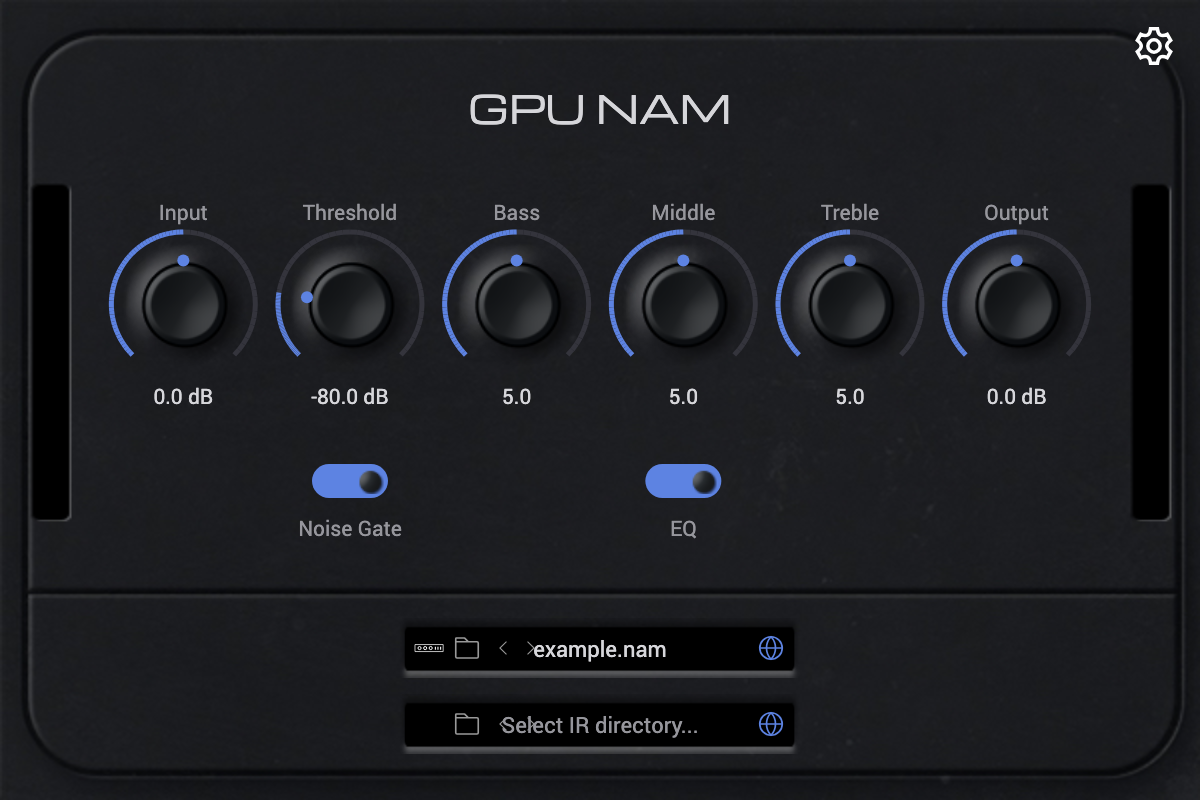
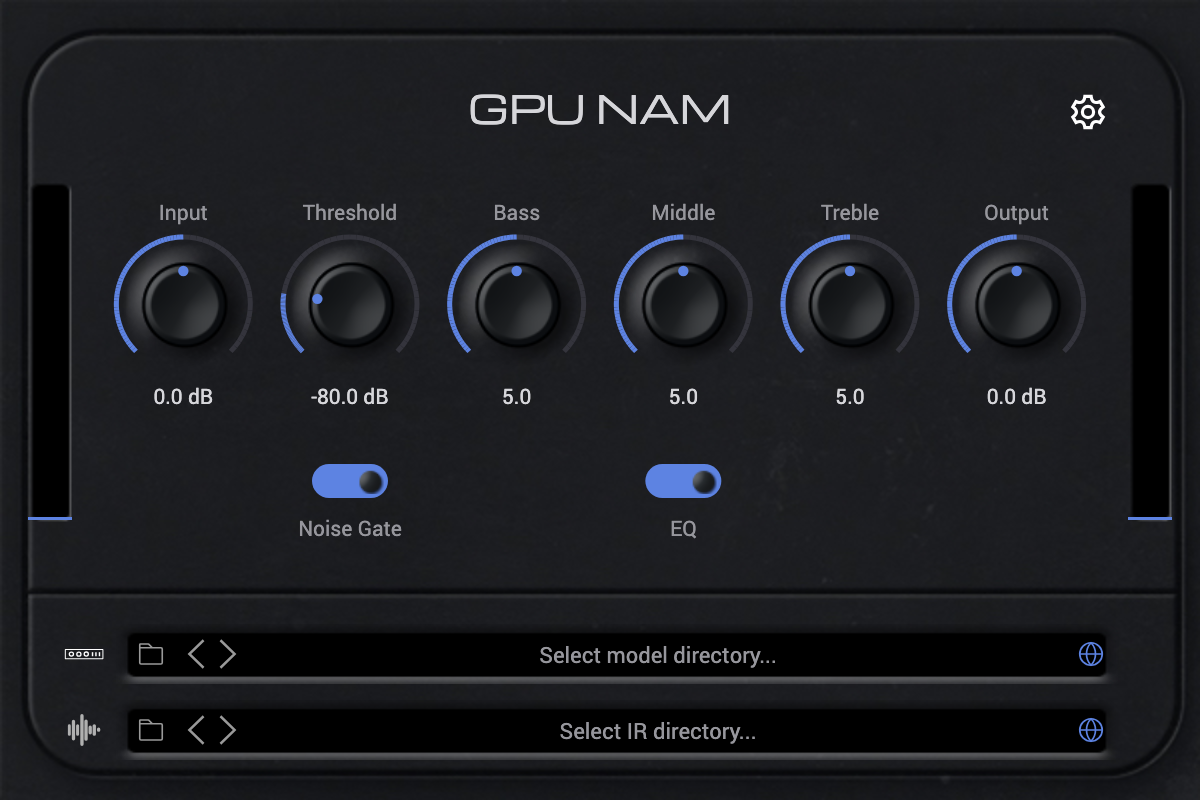
feat(gpu-nam): refine editor to closer NAM parity + settings render + audit
Editor faithfulness pass against a live NeuralAmpModeler capture:

- File slots span the content width like NAM: a type icon (model / IR) now
  sits to the LEFT of a wide FileBackground field, with a left-aligned
  folder + ‹ › browse cluster, centered path text, and a right-edge globe.
- The model slot shows NAM's "Select model directory..." prompt until a user
  actually selects a model (new Processor::user_model_loaded()); the bundled
  default still drives audio but reads as the reference's first-open state.
- Fix two asset-render bugs surfaced by the comparison: the ‹ › chevrons fill
  only ~35% of their 800px viewBox (drew ~4px and vanished) — now drawn
  oversized to read as visible chevrons; and IRIconOff.svg had no fill, so it
  rendered black on the dark panel — give it an inherited fill so the IR type
  icon shows.
- Settings gear moves onto the title line inside the panel (NAM's placement),
  not the window corner.
- Knob value arc hugs the cap (no floating gap) and the indicator dot sits
  inside the cap rather than riding the rim.
- Meters gain NAM's accent baseline at their foot, present even at rest.

Tooling + docs:
- gpu-nam-shot --settings renders the settings overlay (via a new
  GpuNamUi::show_settings()) so the GPU-specific Engine/Bypass page can be
  captured for comparison.
- docs/comparison.md: honest iPlug-reference-vs-ours audit. Both UIs are
  GPU-rendered (NanoVG vs Skia/Dawn); the real GPU differentiator is that our
[…]

diff --git a/examples/gpu-nam/gpu_nam_ui.hpp b/examples/gpu-nam/gpu_nam_ui.hpp
@@ -51,11 +51,18 @@ inline constexpr float kKnobCy = 152.0f, kKnobR = 33.0f;
 inline constexpr float kKnobLabelY = 110.0f, kKnobValueY = 202.0f;
 inline constexpr float kToggleY = 232.0f, kToggleW = 38.0f, kToggleH = 17.0f;
 inline constexpr float kToggleLabelY = 268.0f;
-inline constexpr float kFileL = 200.0f, kFileR = 400.0f;
-inline constexpr float kModelT = 309.0f, kFileH = 30.0f, kIrDy = 38.0f;
+// File rows span most of the content width like NAM: a type icon sits to the
+// LEFT of a wide FileBackground field; the field carries a left-aligned
+// folder + ‹ › browse cluster, centered path text, and a right-edge globe.
+inline constexpr float kFileIconL = 32.0f;   // type icon (model / IR), left of field
+inline constexpr float kFileFieldL = 58.0f;  // FileBackground left edge
+inline constexpr float kFileR = 560.0f;      // FileBackground right edge
+inline constexpr float kModelT = 312.0f, kFileH = 30.0f, kIrDy = 38.0f;
 inline constexpr float kMeterInL = 10.0f, kMeterOutL = 560.0f;
 inline constexpr float kMeterT = 86.0f, kMeterW = 30.0f, kMeterH = 178.0f;
-inline constexpr float kGearX = 566.0f, kGearY = 12.0f, kGearSz = 22.0f;
+// Settings gear: inside the panel on the title line, right of the title (NAM
+// places it there, not in the window corner).
+inline constexpr float kGearX = 534.0f, kGearY = 46.0f, kGearSz = 20.0f;
 inline float knob_cx(int i) {
     const float cw = (kKnobAreaR - kKnobAreaL) / kNumKnobs;
     return kKnobAreaL + (static_cast<float>(i) + 0.5f) * cw;
@@ -120,6 +127,9 @@ public:
     void on_mouse_down(vw::Point p) override { pointer_press(p); }
     void on_mouse_drag(vw::Point p) override { pointer_move(p); }
     void on_mouse_up(vw::Point) override { pointer_release(); }
+
+    // Open/close the settings overlay programmatically (screenshots, tests).
+    void show_settings(bool on) { show_settings_ = on; }
 
     // Test accessors (headless interaction verification).
     vw::Point knob_center_for_test(int i) {
@@ -224,15 +234,18 @@ private:
         constexpr float kSweep = 135.0f;  // ±135° → 270° travel
         const float a0 = -kSweep * 3.14159265f / 180.0f;
         const float a1 = (-kSweep + frac * 2.0f * kSweep) * 3.14159265f / 180.0f;
-        stroke_arc_points(canvas, scx, scy, sR + ss(3.0f), a0,  kSweep * 3.14159265f / 180.0f,
+        // Value arc hugs the knob face (NAM's ring sits just outside the cap, not
+        // floating with a gap).
+        const float arc_r = sR + ss(0.5f);
+        stroke_arc_points(canvas, scx, scy, arc_r, a0,  kSweep * 3.14159265f / 180.0f,
                           colors_.arc_track, ss(2.5f));
-        stroke_arc_points(canvas, scx, scy, sR + ss(3.0f), a0, a1, colors_.accent, ss(2.5f));
+        stroke_arc_points(canvas, scx, scy, arc_r, a0, a1, colors_.accent, ss(2.5f));
 
-        // Indicator dot at the current angle.
-        const float ix = scx + std::sin(a1) * sR * 0.66f;
-        const float iy = scy - std::cos(a1) * sR * 0.66f;
+        // Indicator dot set inside the cap (not riding the rim), like NAM.
+        const float ix = scx + std::sin(a1) * sR * 0.5f;
+        const float iy = scy - std::cos(a1) * sR * 0.5f;
         canvas.set_fill_color(colors_.accent);
-        canvas.fill_circle(ix, iy, ss(3.0f));
+        canvas.fill_circle(ix, iy, ss(2.6f));
 
         // Value readout below.
         char buf[40];
@@ -296,54 +309,70 @@ private:
     void paint_meter(cv::Canvas& canvas, float x, float level_db) {
         const float y = nam_geom::kMeterT, w = nam_geom::kMeterW, h = nam_geom::kMeterH;
         canvas.draw_image_from_file(img("MeterBackground.png"), sx(x), sy(y), ss(w), ss(h));
+        const float pad = 4.0f;
+        const float bx = x + pad, bw = w - 2 * pad;
         // Map −48..0 dB → 0..1 of the bar height, filling from the bottom. The
         // −48 dB floor keeps the meter dark at rest (matching NAM's idle look).
         const float frac = std::clamp((level_db + 48.0f) / 48.0f, 0.0f, 1.0f);
-        if (frac <= 0.001f) return;
-        const float pad = 4.0f;
-        const float bar_h = (h - 2 * pad) * frac;
-        const float bx = x + pad, bw = w - 2 * pad;
-        const float by = y + h - pad - bar_h;
-        // Green→amber→red toward the top, like NAM's meter.
-        cv::Color c = level_db > -3.0f  ? cv::Color::rgba8(226, 96, 80)
-                    : level_db > -12.0f ? cv::Color::rgba8(230, 184, 90)
-                                        : colors_.accent;
-        canvas.set_fill_color(c);
-        canvas.fill_rounded_rect(sx(bx), sy(by), ss(bw), ss(bar_h), ss(2.0f));
+        if (frac > 0.001f) {
+            const float bar_h = (h - 2 * pad) * frac;
+            const float by = y + h - pad - bar_h;
+            // Green→amber→red toward the top, like NAM's meter.
+            cv::Color c = level_db > -3.0f  ? cv::Color::rgba8(226, 96, 80)
+                        : level_db > -12.0f ? cv::Color::rgba8(230, 184, 90)
+                                            : colors_.accent;
+            canvas.set_fill_color(c);
+            canvas.fill_rounded_rect(sx(bx), sy(by), ss(bw), ss(bar_h), ss(2.0f));
+        }
+        // Accent baseline at the meter's foot — present even at rest, like NAM's
+        // blue floor line under each meter.
+        canvas.set_fill_color(colors_.accent);
+        canvas.fill_rect(sx(bx), sy(y + h - pad - 1.5f), ss(bw), ss(1.5f));
     }
 
     void paint_file_slots(cv::Canvas& canvas) {
+        // Show the model path only once a user picks one; the bundled default
+        // reads as NAM's first-open prompt (faithful to the reference default).
+        const std::string model_label = proc_.user_model_loaded()
+                                            ? proc_.model_name()
+                                            : "Select model directory...";
         paint_file_slot(canvas, nam_geom::kModelT, "ModelIcon.svg",
-                        proc_.model_name(), /*model=*/true);
+                        model_label, proc_.user_model_loaded());
         paint_file_slot(canvas, nam_geom::kModelT + nam_geom::kIrDy, "IRIconOff.svg",
-                        "Select IR directory...", /*model=*/false);
+                        "Select IR directory...", /*loaded=*/false);
     }
 
     void paint_file_slot(cv::Canvas& canvas, float top, const char* type_icon,
-                         const std::string& label, bool model) {
-        const float x = nam_geom::kFileL, w = nam_geom::kFileR - nam_geom::kFileL;
+                         const std::string& label, bool loaded) {
+        const float fx = nam_geom::kFileFieldL;
+        const float w = nam_geom::kFileR - fx;
         const float h = nam_geom::kFileH;
-        canvas.draw_image_from_file(img("FileBackground.png"), sx(x), sy(top), ss(w), ss(h));
         const float mid = top + h * 0.5f;
-        auto draw_icon = [&](const char* name, float ix, float iy, float sz) {
+        auto draw_icon = [&](const char* name, float ix, float iy, float sw, float sh) {
             const auto& s = svg(name);
-            if (!s.empty()) canvas.draw_svg(s, sx(ix), sy(iy), ss(sz), ss(sz));
+            if (!s.empty()) canvas.draw_svg(s, sx(ix), sy(iy), ss(sw), ss(sh));
         };
 
-        // Left group: type icon · folder · ‹ · › (matching NAM's control order).
-        const float isz = 15.0f;
-        draw_icon(type_icon,      x + 7.0f,  mid - isz * 0.5f, isz);
-        draw_icon("File.svg",     x + 26.0f, mid - isz * 0.5f, isz);
-        draw_icon("ArrowLeft.svg",  x + 46.0f, mid - 5.5f, 11.0f);
-        draw_icon("ArrowRight.svg", x + 60.0f, mid - 5.5f, 11.0f);
-        // Globe (right edge).
-        draw_icon("Globe.svg", x + w - 22.0f, mid - isz * 0.5f, isz);
+        // Type icon (model / IR) sits to the LEFT of the field, like NAM.
+        draw_icon(type_icon, nam_geom::kFileIconL, mid - 8.0f, 20.0f, 16.0f);
 
-        // Centered name (loaded model name, else the NAM placeholder text).
-        canvas.set_fill_color(model ? colors_.text : colors_.text_dim);
+        // Wide FileBackground field.
+        canvas.draw_image_from_file(img("FileBackground.png"), sx(fx), sy(top), ss(w), ss(h));
+
+        // Left-aligned browse cluster inside the field: folder · ‹ · ›. The arrow
+        // glyphs fill only ~35% of their 800px viewBox, so draw them oversized to
+        // read as visible chevrons at this scale.
+        draw_icon("File.svg",       fx + 10.0f, mid - 7.5f, 15.0f, 15.0f);
+        draw_icon("ArrowLeft.svg",  fx + 28.0f, mid - 12.0f, 24.0f, 24.0f);
+        draw_icon("ArrowRight.svg", fx + 44.0f, mid - 12.0f, 24.0f, 24.0f);
+        // Globe at the right edge.
+        draw_icon("Globe.svg", nam_geom::kFileR - 22.0f, mid - 7.5f, 15.0f, 15.0f);
+
+        // Centered path text (loaded model name, else NAM's placeholder prompt).
+        canvas.set_fill_color(loaded ? colors_.text : colors_.text_dim);
         canvas.set_font("Roboto", ss(11.0f));
         canvas.set_text_align(cv::TextAlign::center);
-        canvas.fill_text(label, sx(x + w * 0.5f), sy(mid + 3.8f));
+        canvas.fill_text(label, sx(fx + w * 0.5f + 20.0f), sy(mid + 3.8f));
         canvas.set_text_align(cv::TextAlign::left);
     }
 

diff --git a/examples/gpu-nam/gpu_nam_processor.hpp b/examples/gpu-nam/gpu_nam_processor.hpp
@@ -228,7 +228,16 @@ public:
     void load_model(const std::string& path) {
         std::lock_guard<std::mutex> lock(model_req_mutex_);
         requested_model_path_ = path.empty() ? gpu_nam_default_model_path() : path;
+        // A non-empty path is a real user selection; empty resets to the bundled
+        // default. The file-slot UI shows the prompt until a user picks a model.
+        user_model_loaded_.store(!path.empty(), std::memory_order_release);
         model_req_generation_.fetch_add(1, std::memory_order_release);
+    }
+
+    /// True once a user has selected a model via load_model(); false for the
+    /// bundled default. UI-thread only. Drives the file-slot prompt vs name.
+    bool user_model_loaded() const {
+        return user_model_loaded_.load(std::memory_order_acquire);
     }
 
     /// True when the live audio path is actually the GPU engine (Engine=GPU is
@@ -893,6 +902,7 @@ private:
     mutable std::mutex model_mutex_;
     nam::NamModel model_;
     std::string model_name_ = "(no model)";
+    std::atomic<bool> user_model_loaded_{false};
     TransferCurve transfer_curve_{};
     std::atomic<std::uint32_t> model_generation_{0};
 

diff --git a/examples/gpu-nam/screenshot.cpp b/examples/gpu-nam/screenshot.cpp
@@ -10,6 +10,7 @@
 //              it has in a live host.
 
 #include "gpu_nam_processor.hpp"  // pulls in BufferView + MidiBuffer via processor.hpp
+#include "gpu_nam_ui.hpp"
 #include <pulp/view/screenshot.hpp>
 
 #include <chrono>
@@ -27,10 +28,12 @@ int main(int argc, char** argv) {
 
     const char* out = "/tmp/gpu_nam_ui.png";
     bool want_gpu = false;
+    bool want_settings = false;
     for (int i = 1; i < argc; ++i) {
         const std::string arg(argv[i]);
         if (arg == "--gpu") want_gpu = true;
         else if (arg == "--raster") want_gpu = false;
+        else if (arg == "--settings") want_settings = true;
         else if (!arg.empty() && arg[0] != '-') out = argv[i];
     }
 
@@ -91,6 +94,8 @@ int main(int argc, char** argv) {
     }
 
     auto v = proc.create_view();
+    if (want_settings)
+        if (auto* ui = dynamic_cast<examples::GpuNamUi*>(v.get())) ui->show_settings(true);
     const bool ok = view::render_to_file(*v, 600, 400, out, 2.0f, backend);
     std::printf("GPU NAM editor screenshot [%s]: %s -> %s\n",
                 backend == ScreenshotBackend::gpu ? "gpu" : "raster",

diff --git a/examples/gpu-nam/docs/comparison.md b/examples/gpu-nam/docs/comparison.md
@@ -1,0 +1,82 @@
+# GPU NAM (Pulp) vs the reference NeuralAmpModelerPlugin
+
+An honest, factual comparison of this demo against the open-source
+[NeuralAmpModelerPlugin](https://github.com/sdatkinson/NeuralAmpModelerPlugin)
+(iPlug2) whose editor it faithfully recreates. The goal is a fair capability
+map — what each does, where they differ, and specifically what runs on the GPU.
+It is not a knock on the reference plugin, which is excellent and is the ground
+truth this demo measures itself against.
+
+## What each is
+
+| | NeuralAmpModelerPlugin (reference) | GPU NAM (this demo) |
+|---|---|---|
+| UI framework | iPlug2 `IGraphics` (NanoVG) | Pulp view/canvas (Skia Graphite on Dawn) |
+| Neural inference | NeuralAmpModelerCore (Eigen), **CPU** | Clean-room WaveNet: **CPU oracle + opt-in GPU engine** |
+| `.nam` model support | Yes (trainer + player) | Player only (loads `.nam` WaveNet captures) |
+| License posture | iPlug2 (NOASSERTION), eigen (MPL-2.0) | MIT-releasable, no copyleft deps |
+
+## Rendering — GPU in both, different stacks
+
+The reference UI is **not** CPU-rasterized: iPlug2's default `IGraphics` backend
+is NanoVG, which is GPU-accelerated (OpenGL/Metal). So the honest statement is
+that **both editors are GPU-rendered** — the reference via NanoVG, this demo via
+Skia Graphite on Dawn (WebGPU). We do not claim a rendering advantage on the UI;
+the recreation aims for visual parity, and the montage in this folder shows it.
+
+Where Pulp's stack adds value is uniformity: the same view/canvas tree is
+GPU-rendered live in a host **and** headless-renderable for tests and
+screenshots (the montage and the `gpu-nam-ui-test` fixture are the same code
+path), which is how this demo keeps its editor under visual-regression cover.
+
+## Audio — this is where "on GPU" is real
+
+The reference runs its WaveNet **entirely on the CPU** (NeuralAmpModelerCore is
+an Eigen/CPU implementation). GPU NAM runs a clean-room WaveNet with **two
+interchangeable engines**:
+
+- **CPU oracle** (default) — the exact NAM forward inline on the audio thread.
+  Always available; the fallback when no GPU device exists.
+- **GPU engine** (opt-in, in the settings gear) — one fused `nam_forward` per
+  channel executed on the GPU via `GpuNamCloudNode` on a `GpuAudioTransport`,
+  and **validated bit-for-bit against the CPU oracle** (`gpu-nam-gpu-test`).
+
+So: **the neural amp inference can run on the GPU in this demo, which the
+reference does not do.** Both engines re-block the host stream into fixed
+512-sample blocks through one shared FIFO at one fixed, PDC-correct latency, so
+switching engines is seamless and phase-aligned (`gpu-nam-plugin-test` proves
+the switch is live at fixed latency, and that the amped output is identical
+regardless of host block size).
+
+## Signal-face parity
+
+| Control | Reference | GPU NAM | Notes |
+|---|---|---|---|
+| Input / Output gain | ✅ | ✅ | Same ranges (−20..20 / −40..40 dB) |
+| Noise gate (threshold + toggle) | ✅ | ✅ | Downward expander on the input drive |
+| Bass / Middle / Treble tone stack | ✅ | ✅ | Low-shelf / peak / high-shelf; 5 = flat |
+| EQ enable toggle | ✅ | ✅ | |
+| Input / Output meters | ✅ | ✅ | Idle-dark with an accent baseline |
+| Model (`.nam`) slot | ✅ | ✅ | Loads WaveNet captures |
+| Engine CPU/GPU switch | ✕ (CPU only) | ✅ | The point of the GPU demo |
+
+## Honest gaps (where the reference does more, today)
+
+- **Impulse-response (IR) convolution** — the reference loads and applies a
+  cabinet IR. GPU NAM shows the IR slot for layout faithfulness but **does not
+  apply an IR yet**; it is a UI placeholder, not wired to a convolver. (Pulp has
+  a partitioned convolver — see SuperConvolver — so this is a wiring task, not a
+  missing capability.)
+- **Output mode / calibration** — the reference offers Raw / Normalized /
+  Calibrated output and input-level calibration. GPU NAM has plain output gain
+  only.
+- **Model training** — out of scope by design; GPU NAM is a player. Train with
+  the [NAM trainer](https://github.com/sdatkinson/neural-amp-modeler).
+
+## Summary
+
+On the faithful signal face and the editor, GPU NAM reaches parity with the
+reference. Its distinct contribution is running the **neural amp inference on
+the GPU** (opt-in, bit-exact against the CPU), which the CPU-only reference does
+not offer. It trails the reference on IR convolution and output calibration,
+both of which are known follow-ups rather than architectural limits.